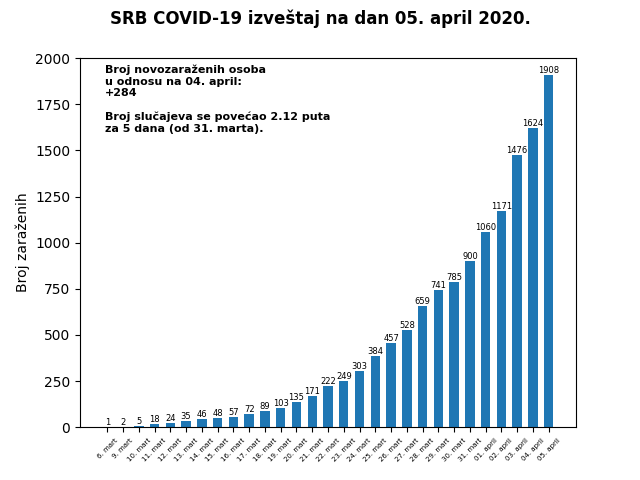
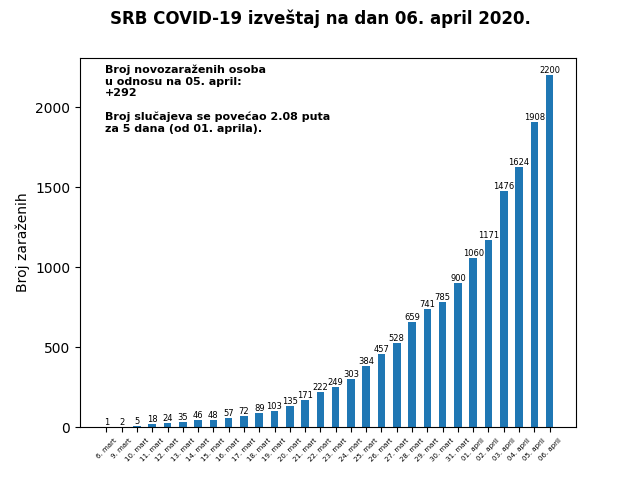
Changed bar width, updated data.json and report

diff --git a/main.py b/main.py
@@ -204,7 +204,7 @@ if "Информације" or "Информацијa" in \
                 # Visualize
                 logging.info("Visualizing ...")
                 bar = plt.bar(range(len(data)), list(data.values()),
-                              align='center', width=0.6)
+                              align='center', width=0.5)
                 plt.xticks(range(len(data)), list(data.keys()),
                            rotation=45)
                 plt.tick_params(axis='x', which='major', labelsize=5)
